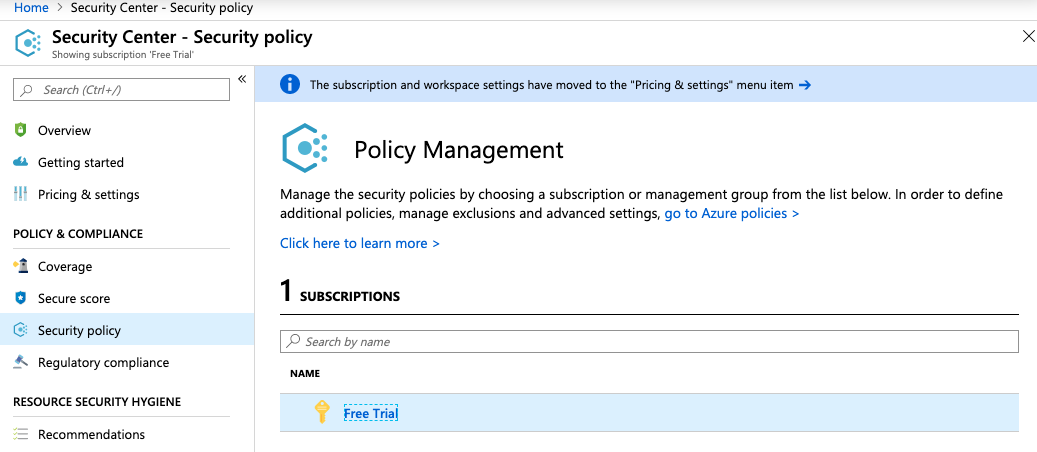
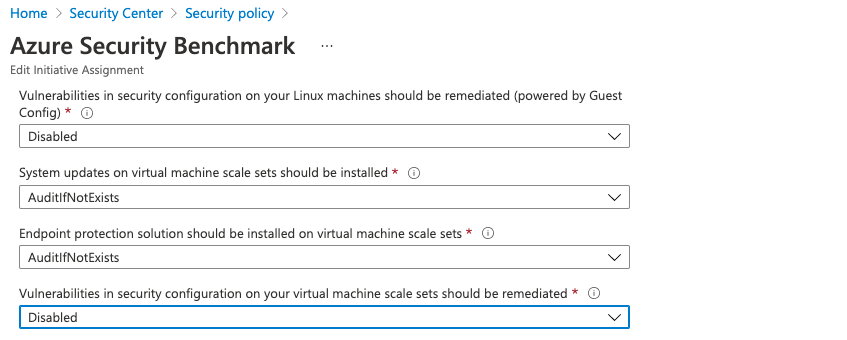
Patch 326-vm-vulnerabilities (#347)
* Update monitor-vm-vulnerability.md

* Add files via upload

* Add files via upload

* Update monitor-vm-vulnerability.md

* Update monitor-vm-vulnerability.md

* Update en/azure/securitycenter/monitor-vm-vulnerability.md

diff --git a/en/azure/securitycenter/monitor-vm-vulnerability.md b/en/azure/securitycenter/monitor-vm-vulnerability.md
@@ -18,11 +18,13 @@
 
 1. Log into the Microsoft Azure Management Console.
 2. Select the "Search resources, services, and docs" option at the top and search for Security Center. </br> <img src="/resources/azure/securitycenter/monitor-vm-vulnerability/step2.png"/>
-3. Scroll down the "Security Center" navigation panel and select the "Security policy" option under "POLICY & COMPLIANCE."</br> <img src="/resources/azure/securitycenter/monitor-vm-vulnerability/step3.png"/>
+3. Scroll down the "Security Center" and select the "Security policy" option under "Management" in the left navigation panel.</br>
 4. On the "Policy Management" page under "Name" column select the "Subscription Name" that needs to be verified.</br> <img src="/resources/azure/securitycenter/monitor-vm-vulnerability/step4.png"/>
-5. On the "Security Policy" page scroll down the "Compute And Apps" section and check the "Vulnerabilities in security configuration on your virtual machine scale sets should be remediated". If it's set to "Disabled" then "Vulnerability Assessment" is not enabled on the selected "Subscription."</br> <img src="/resources/azure/securitycenter/monitor-vm-vulnerability/step5.png"/>
-6. Repeat steps number 2 - 5 to check other "Subscriptions" under the "Security Center."</br>
-7. Navigate to the "Security Center", select the "Security policy" and under "Policy Management" seelct the "Subscription" that needs to enable the "Vulnerability Assessment."</br> <img src="/resources/azure/securitycenter/monitor-vm-vulnerability/step7.png"/>
-8. Select the "Subscription" link under the "Security policy" at the top to get into the configuration settings. </br> <img src="/resources/azure/securitycenter/monitor-vm-vulnerability/step8.png"/>
-9. Scroll down the page and under "Parameter" choose the "Vulnerabilities in security configuration on your virtual machine scale sets should be remediated" and select the "AuditIfNotExists" option from the dropdown menu and click on the "Save" button at the bottom to make the necessary changes.</br> <img src="/resources/azure/securitycenter/monitor-vm-vulnerability/step9.png"/>
-10. Repeat steps number 7 - 9 to ensures "Vulnerability Assessment" is enabled in Security Center.</br>
+5. In the "Security Policy" page scroll down and click on the "Azure Security Benchmark".</br> <img src="/resources/azure/securitycenter/monitor-vm-vulnerability/step5.png"/>
+6. In the "Azure Security Benchmark" click on the Next button.</br> <img src="/resources/azure/securitycenter/monitor-vm-vulnerability/step6.png"/>
+7. In the "Azure Security Benchmark", check for the "Vulnerabilities in security configuration on your virtual machine scale sets should be remediated" Parameter and if it's set to "Disable" then the encryption is not enabled.</br> <img src="/resources/azure/securitycenter/monitor-vm-vulnerability/step7.png"/>
+8. Repeat steps number 2 - 7 to check other "Subscriptions" under the "Security Center."</br>
+9. Navigate to the "Security Center", select the "Security policy" and under "Policy Management" seelct the "Subscription" that needs to enable the "Vulnerability Assessment."</br> <img src="/resources/azure/securitycenter/monitor-vm-vulnerability/step9.png"/>
+10. Select the "Subscription" link under the "Security policy" at the top to get into the configuration settings. </br> <img src="/resources/azure/securitycenter/monitor-vm-vulnerability/step10.png"/>
+11. Scroll down the page and under "Parameter" choose the "Vulnerabilities in security configuration on your virtual machine scale sets should be remediated" and select the "AuditIfNotExists" option from the dropdown menu and click on the "Save" button at the bottom to make the necessary changes.</br> <img src="/resources/azure/securitycenter/monitor-vm-vulnerability/step11.png"/>
+12. Repeat steps number 9 - 11 to ensure "Vulnerability Assessment" is enabled in Security Center.</br>
